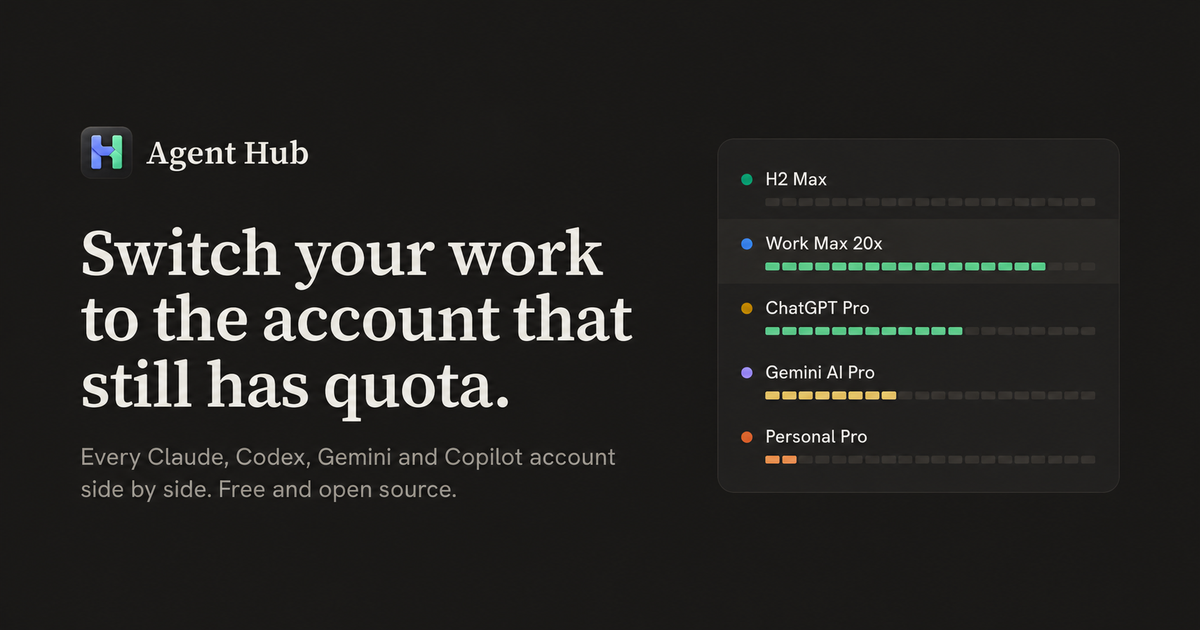
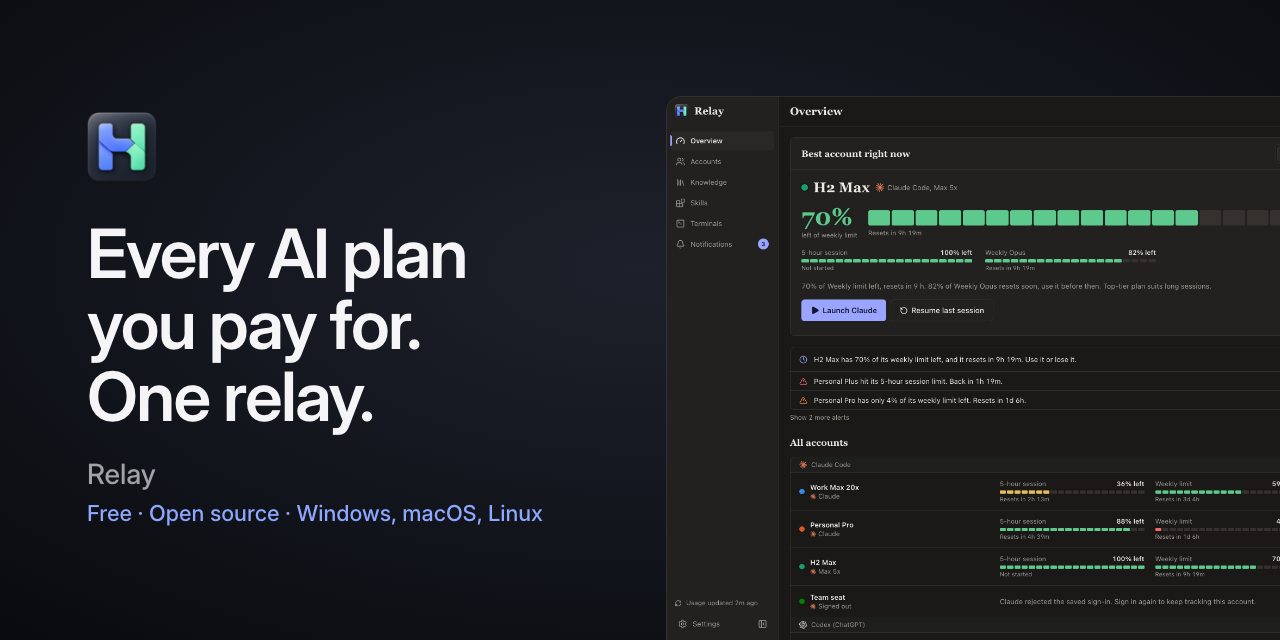
Rename the website to Relay and point it at the new repository
The share image is now the 1280x640 Relay preview. The screenshots under assets/shots still show the old name until they are recaptured.

diff --git a/site/index.html b/site/index.html
@@ -3,12 +3,12 @@
 <head>
 <meta charset="utf-8">
 <meta name="viewport" content="width=device-width, initial-scale=1">
-<title>Agent Hub: switch your work to the account that still has quota</title>
+<title>Relay: your work, handed to the account that still has quota</title>
 <meta name="description" content="A free, open-source desktop app for Windows, macOS and Linux. Keep all your Claude, ChatGPT, Gemini and Copilot accounts signed in side by side, see how much of every limit is left, and launch your CLI with the right account in one click.">
 <meta name="color-scheme" content="dark light">
 <meta name="theme-color" content="#1A1918" media="(prefers-color-scheme: dark)">
 <meta name="theme-color" content="#F5F3EE" media="(prefers-color-scheme: light)">
-<link rel="canonical" href="https://cristimachine25.github.io/agent-hub/">
+<link rel="canonical" href="https://cristimachine25.github.io/relay/">
 <link rel="icon" href="favicon.png" type="image/png">
 <link rel="apple-touch-icon" href="assets/apple-touch-icon.png">
 <link rel="preload" href="assets/fonts/source-serif-4-latin-wght-normal.woff2" as="font" type="font/woff2" crossorigin>
@@ -16,22 +16,22 @@
 <link rel="stylesheet" href="assets/site.css">
 
 <meta property="og:type" content="website">
-<meta property="og:site_name" content="Agent Hub">
-<meta property="og:title" content="Agent Hub: switch your work to the account that still has quota.">
+<meta property="og:site_name" content="Relay">
+<meta property="og:title" content="Relay: your work, handed to the account that still has quota.">
 <meta property="og:description" content="Keep every Claude, ChatGPT, Gemini and Copilot account signed in side by side, see what is left of every limit, and launch the right one in one click. Free, open source, local-only.">
-<meta property="og:url" content="https://cristimachine25.github.io/agent-hub/">
-<meta property="og:image" content="https://cristimachine25.github.io/agent-hub/assets/og.png">
-<meta property="og:image:width" content="1200">
-<meta property="og:image:height" content="630">
-<meta property="og:image:alt" content="Agent Hub showing several AI accounts with segmented meters of how much quota each has left.">
+<meta property="og:url" content="https://cristimachine25.github.io/relay/">
+<meta property="og:image" content="https://cristimachine25.github.io/relay/assets/og.png">
+<meta property="og:image:width" content="1280">
+<meta property="og:image:height" content="640">
+<meta property="og:image:alt" content="Relay showing several AI accounts with segmented meters of how much quota each has left.">
 <meta name="twitter:card" content="summary_large_image">
-<meta name="twitter:title" content="Agent Hub: switch your work to the account that still has quota.">
+<meta name="twitter:title" content="Relay: your work, handed to the account that still has quota.">
 <meta name="twitter:description" content="Every AI account signed in side by side, every limit in view, one-click launch. Free, open source, local-only.">
-<meta name="twitter:image" content="https://cristimachine25.github.io/agent-hub/assets/og.png">
+<meta name="twitter:image" content="https://cristimachine25.github.io/relay/assets/og.png">
 
 <script>
   /* Picks the download label for this visitor's OS. Runs inline so the button never changes after paint. */
-  function agentHubDownload(root) {
+  function relayDownload(root) {
     var ua = navigator.userAgent || "";
     var p = ((navigator.userAgentData && navigator.userAgentData.platform) || navigator.platform || "").toLowerCase();
     var os = null;
@@ -46,14 +46,14 @@
     var note = root.querySelector("[data-dl-note]");
     var others = root.querySelector("[data-dl-others]");
     if (os === "mobile") {
-      note.textContent = "Agent Hub is a desktop app for Windows, macOS and Linux. Open this page on your computer to install it.";
+      note.textContent = "Relay is a desktop app for Windows, macOS and Linux. Open this page on your computer to install it.";
       return;
     }
     label.textContent = "Download for " + names[os];
     note.textContent = "v0.2.0, " + files[os] + ", about 3 MB.";
     var rest = Object.keys(names).filter(function (k) { return k !== os; });
-    others.innerHTML = 'Also for <a href="https://github.com/CristiMachine25/agent-hub/releases/latest">' + names[rest[0]] +
-      '</a> and <a href="https://github.com/CristiMachine25/agent-hub/releases/latest">' + names[rest[1]] + "</a>.";
+    others.innerHTML = 'Also for <a href="https://github.com/CristiMachine25/relay/releases/latest">' + names[rest[0]] +
+      '</a> and <a href="https://github.com/CristiMachine25/relay/releases/latest">' + names[rest[1]] + "</a>.";
   }
 </script>
 </head>
@@ -62,9 +62,9 @@
 
 <header class="top">
   <div class="wrap top-in">
-    <a class="brand" href="./" aria-label="Agent Hub home">
+    <a class="brand" href="./" aria-label="Relay home">
       <img src="assets/app-icon.png" alt="" width="28" height="28">
-      <span>Agent Hub</span>
+      <span>Relay</span>
     </a>
     <nav aria-label="Main">
       <ul>
@@ -72,7 +72,7 @@
         <li class="nav-opt"><a href="#tools">Tools</a></li>
         <li class="nav-opt"><a href="#privacy">Privacy</a></li>
         <li class="nav-opt"><a href="#faq">FAQ</a></li>
-        <li><a href="https://github.com/CristiMachine25/agent-hub">GitHub</a></li>
+        <li><a href="https://github.com/CristiMachine25/relay">GitHub</a></li>
       </ul>
     </nav>
   </div>
@@ -84,18 +84,18 @@
 <section class="hero" aria-labelledby="hero-title">
   <div class="wrap hero-in">
     <div class="hero-copy">
-      <h1 id="hero-title">Switch your work to the account that still has quota.</h1>
-      <p class="lede">Agent Hub keeps every Claude, ChatGPT, Gemini and Copilot account you pay for signed in side by side, shows how much of each limit is left, and opens Claude Code, Codex, Gemini CLI or Copilot CLI with the one you pick.</p>
+      <h1 id="hero-title">Your work, handed to the account that still has quota.</h1>
+      <p class="lede">Relay keeps every Claude, ChatGPT, Gemini and Copilot account you pay for signed in side by side, shows how much of each limit is left, and opens Claude Code, Codex, Gemini CLI or Copilot CLI with the one you pick.</p>
 
       <div class="dl" id="download">
-        <a class="btn btn-primary" href="https://github.com/CristiMachine25/agent-hub/releases/latest">
+        <a class="btn btn-primary" href="https://github.com/CristiMachine25/relay/releases/latest">
           <svg aria-hidden="true" width="18" height="18" viewBox="0 0 24 24" fill="none" stroke="currentColor" stroke-width="2.2" stroke-linecap="round" stroke-linejoin="round"><path d="M12 4v11m0 0-4.5-4.5M12 15l4.5-4.5M5 20h14"/></svg>
-          <span data-dl-label>Download Agent Hub</span>
+          <span data-dl-label>Download Relay</span>
         </a>
-        <a class="btn btn-quiet" href="https://github.com/CristiMachine25/agent-hub">Source on GitHub</a>
+        <a class="btn btn-quiet" href="https://github.com/CristiMachine25/relay">Source on GitHub</a>
         <p class="dl-note"><span data-dl-note>v0.2.0 for Windows, macOS and Linux, about 3 MB.</span> <span data-dl-others></span></p>
       </div>
-      <script>agentHubDownload(document.getElementById("download"));</script>
+      <script>relayDownload(document.getElementById("download"));</script>
 
       <p class="hero-foot">Free and open source under the MIT license. No account, no server, no telemetry.</p>
     </div>
@@ -132,7 +132,7 @@
         </div>
       </div>
       <figcaption>
-        <span class="sr-only">Demo of the Agent Hub board with five accounts. Each meter has 20 segments showing how much of a limit is left, colored from green for plenty to red for empty. When the account in use reaches its limit, Agent Hub hands the work to the next best account and launches it. Simulated time, made-up accounts.</span>
+        <span class="sr-only">Demo of the Relay board with five accounts. Each meter has 20 segments showing how much of a limit is left, colored from green for plenty to red for empty. When the account in use reaches its limit, Relay hands the work to the next best account and launches it. Simulated time, made-up accounts.</span>
         <span aria-hidden="true">Simulated time, made-up accounts.</span>
         <button class="pause" type="button" data-pause aria-pressed="false">Pause demo</button>
       </figcaption>
@@ -188,7 +188,7 @@
         <div class="shot" role="tabpanel" id="panel-alerts" aria-labelledby="tab-alerts" hidden>
           <picture>
             <source srcset="assets/shots/notifications-light.webp" media="(prefers-color-scheme: light)">
-            <img src="assets/shots/notifications-dark.webp" width="1240" height="820" alt="The Notifications screen: H2 Max has 70% of its weekly limit resetting unused in 9 hours, Plus side account hit its 5-hour limit, and Personal Pro has 4% of its weekly limit left." loading="lazy" decoding="async">
+            <img src="assets/shots/notifications-dark.webp" width="1240" height="820" alt="The Notifications screen: H2 Max has 70% of its weekly limit resetting unused in 9 hours, Personal Plus hit its 5-hour limit, and Personal Pro has 4% of its weekly limit left." loading="lazy" decoding="async">
           </picture>
         </div>
         <div class="shot" role="tabpanel" id="panel-accounts" aria-labelledby="tab-accounts" hidden>
@@ -203,7 +203,7 @@
     <div class="recommend">
       <div class="recommend-copy">
         <h3>A pick for the task in front of you</h3>
-        <p>Choose coding, a long refactor, a quick question, research or review. Agent Hub weighs every account's session and weekly limits and tells you which one to use, with two fallbacks in case you disagree.</p>
+        <p>Choose coding, a long refactor, a quick question, research or review. Relay weighs every account's session and weekly limits and tells you which one to use, with two fallbacks in case you disagree.</p>
       </div>
       <ol class="picks" aria-label="Example recommendation for a long refactor">
         <li><span class="dot" style="--c:#199E70"></span><span class="pick-name">H2 Max</span><span class="pick-why">70% of weekly left, resets in 9h. Use it before it's gone.</span></li>
@@ -282,7 +282,7 @@
   <div class="wrap">
     <div class="sec-head">
       <h2 id="tools-title">Works with the tools you already use</h2>
-      <p>Agent Hub uses each tool's own sign-in and its official CLI. It does not proxy your prompts or replace any app.</p>
+      <p>Relay uses each tool's own sign-in and its official CLI. It does not proxy your prompts or replace any app.</p>
     </div>
     <div class="table-scroll">
       <table class="tools">
@@ -317,7 +317,7 @@
         </tbody>
       </table>
     </div>
-    <p class="tools-next">Planned next: Cursor, Antigravity, Kiro, Amp and OpenRouter. Adding a provider means implementing one Rust trait, so <a href="https://github.com/CristiMachine25/agent-hub">pull requests are welcome</a>.</p>
+    <p class="tools-next">Planned next: Cursor, Antigravity, Kiro, Amp and OpenRouter. Adding a provider means implementing one Rust trait, so <a href="https://github.com/CristiMachine25/relay">pull requests are welcome</a>.</p>
   </div>
 </section>
 
@@ -327,9 +327,9 @@
     <div class="privacy-copy">
       <h2 id="privacy-title">Everything stays on your computer</h2>
       <ul class="facts">
-        <li><strong>No Agent Hub server.</strong> No account with us, no telemetry, no analytics. Your data lives in the app's folder on your disk.</li>
-        <li><strong>Tokens go only where they came from.</strong> To read live limits, Agent Hub sends each account's own saved sign-in to that provider's own servers (its usage, profile and sign-in renewal endpoints), and nowhere else.</li>
-        <li><strong>Live usage is optional.</strong> Turn it off in Settings and Agent Hub works from local session logs only.</li>
+        <li><strong>No Relay server.</strong> No account with us, no telemetry, no analytics. Your data lives in the app's folder on your disk.</li>
+        <li><strong>Tokens go only where they came from.</strong> To read live limits, Relay sends each account's own saved sign-in to that provider's own servers (its usage, profile and sign-in renewal endpoints), and nowhere else.</li>
+        <li><strong>Live usage is optional.</strong> Turn it off in Settings and Relay works from local session logs only.</li>
         <li><strong>Uninstall leaves your setup alone.</strong> Every CLI folder stays exactly as it was.</li>
       </ul>
     </div>
@@ -365,7 +365,7 @@
       <li>
         <span class="step-n" aria-hidden="true">2</span>
         <h3>It finds your accounts</h3>
-        <p>Agent Hub detects installed CLIs and the config folders already on your disk, including side-by-side ones like <code>~/.claude-work</code>. Add a new account and you sign in once, in its own folder.</p>
+        <p>Relay detects installed CLIs and the config folders already on your disk, including side-by-side ones like <code>~/.claude-work</code>. Add a new account and you sign in once, in its own folder.</p>
       </li>
       <li>
         <span class="step-n" aria-hidden="true">3</span>
@@ -383,15 +383,15 @@
     <div class="faq">
       <details>
         <summary>Is this allowed by the providers' terms?</summary>
-        <p>Agent Hub does not get around any limit. Each account signs in through the tool's own login and runs the official CLI, and Agent Hub only reads the limits each provider already shows you. Whether you may hold several accounts with one provider is up to that provider, so check their terms for the plans you use.</p>
+        <p>Relay does not get around any limit. Each account signs in through the tool's own login and runs the official CLI, and Relay only reads the limits each provider already shows you. Whether you may hold several accounts with one provider is up to that provider, so check their terms for the plans you use.</p>
       </details>
       <details>
-        <summary>Can Agent Hub see my chats or code?</summary>
-        <p>No. It reads usage numbers and local session statistics such as token counts. It never sends your prompts, chats or code anywhere, and there is no Agent Hub server to send them to.</p>
+        <summary>Can Relay see my chats or code?</summary>
+        <p>No. It reads usage numbers and local session statistics such as token counts. It never sends your prompts, chats or code anywhere, and there is no Relay server to send them to.</p>
       </details>
       <details>
         <summary>Does it work offline?</summary>
-        <p>Launching works offline. Live limits need the network, because they come from each provider's usage endpoint. Without it, Agent Hub shows the last numbers it saw and when it saw them.</p>
+        <p>Launching works offline. Live limits need the network, because they come from each provider's usage endpoint. Without it, Relay shows the last numbers it saw and when it saw them.</p>
       </details>
       <details>
         <summary>Does it run on Linux?</summary>
@@ -403,7 +403,7 @@
       </details>
       <details>
         <summary>What does it cost?</summary>
-        <p>Nothing. Agent Hub is open source under the MIT license. You keep paying your AI providers as you do now, just with less of it going to waste.</p>
+        <p>Nothing. Relay is open source under the MIT license. You keep paying your AI providers as you do now, just with less of it going to waste.</p>
       </details>
     </div>
   </div>
@@ -415,13 +415,13 @@
     <h2 id="closing-title">Use every plan you pay for.</h2>
     <p class="closing-sub">Keep your flow instead of waiting for a reset.</p>
     <div class="dl" id="download-2">
-      <a class="btn btn-primary" href="https://github.com/CristiMachine25/agent-hub/releases/latest">
+      <a class="btn btn-primary" href="https://github.com/CristiMachine25/relay/releases/latest">
         <svg aria-hidden="true" width="18" height="18" viewBox="0 0 24 24" fill="none" stroke="currentColor" stroke-width="2.2" stroke-linecap="round" stroke-linejoin="round"><path d="M12 4v11m0 0-4.5-4.5M12 15l4.5-4.5M5 20h14"/></svg>
-        <span data-dl-label>Download Agent Hub</span>
+        <span data-dl-label>Download Relay</span>
       </a>
       <p class="dl-note"><span data-dl-note>v0.2.0 for Windows, macOS and Linux, about 3 MB.</span> <span data-dl-others></span></p>
     </div>
-    <script>agentHubDownload(document.getElementById("download-2"));</script>
+    <script>relayDownload(document.getElementById("download-2"));</script>
   </div>
 </section>
 
@@ -431,15 +431,15 @@
   <div class="wrap foot-in">
     <div class="foot-brand">
       <img src="assets/app-icon.png" alt="" width="24" height="24">
-      <span>Agent Hub</span>
+      <span>Relay</span>
     </div>
     <ul class="foot-links">
-      <li><a href="https://github.com/CristiMachine25/agent-hub">GitHub</a></li>
-      <li><a href="https://github.com/CristiMachine25/agent-hub/releases">Releases</a></li>
-      <li><a href="https://github.com/CristiMachine25/agent-hub/blob/main/LICENSE">MIT license</a></li>
-      <li><a href="https://github.com/CristiMachine25/agent-hub/issues">Report an issue</a></li>
+      <li><a href="https://github.com/CristiMachine25/relay">GitHub</a></li>
+      <li><a href="https://github.com/CristiMachine25/relay/releases">Releases</a></li>
+      <li><a href="https://github.com/CristiMachine25/relay/blob/main/LICENSE">MIT license</a></li>
+      <li><a href="https://github.com/CristiMachine25/relay/issues">Report an issue</a></li>
     </ul>
-    <p class="disclaimer">Agent Hub is an independent project, not affiliated with or endorsed by Anthropic, OpenAI, Google or GitHub. Product names belong to their owners and are used only to say what Agent Hub works with. Usage endpoints can change without notice.</p>
+    <p class="disclaimer">Relay is an independent project, not affiliated with or endorsed by Anthropic, OpenAI, Google or GitHub. Product names belong to their owners and are used only to say what Relay works with. Usage endpoints can change without notice.</p>
   </div>
 </footer>
 

diff --git a/site/assets/site.css b/site/assets/site.css
@@ -1,4 +1,4 @@
-/* Agent Hub landing page. Same tokens as the app (docs/DESIGN.md): warm charcoal, periwinkle actions,
+/* Relay landing page. Same tokens as the app (docs/DESIGN.md): warm charcoal, periwinkle actions,
    quota colors that only ever mean "how much is left". */
 
 @font-face {

diff --git a/site/assets/site.js b/site/assets/site.js
@@ -1,4 +1,4 @@
-// Agent Hub landing page: segmented meters, the hero handoff demo, and the screen tour tabs.
+// Relay landing page: segmented meters, the hero handoff demo, and the screen tour tabs.
 (function () {
   "use strict";
 
